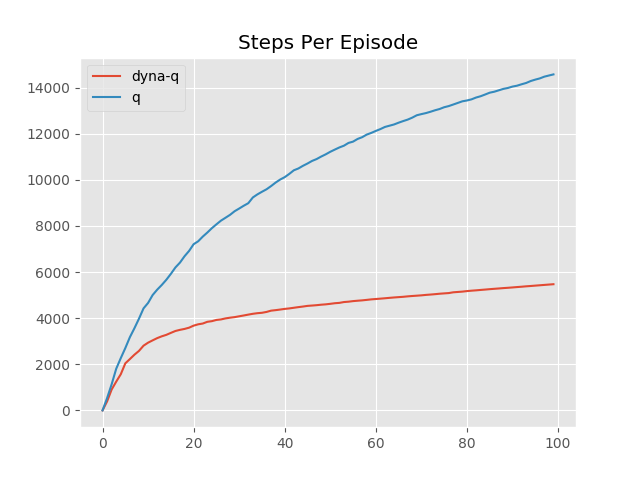
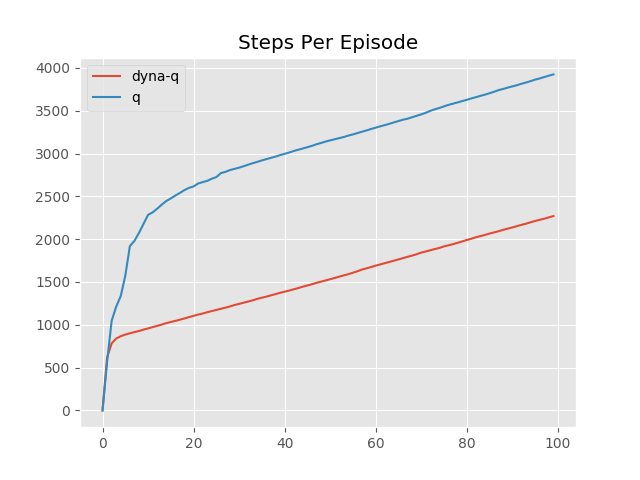
done with testing hw3

diff --git a/hw3/mytaxi/mytaxi.py b/hw3/mytaxi/mytaxi.py
@@ -19,8 +19,8 @@ MAP = [
 MAP = [
     "+---------+",
     "|R? | : ?G|",
-    "| : ? : : |",
-    "| : ? ? : |",
+    "| ? ? : ? |",
+    "| : ? ? ? |",
     "| | ? | : |",
     "|Y| : |B: |",
     "+---------+",
@@ -80,7 +80,7 @@ class TaxiEnv(discrete.DiscreteEnv):
                 for passidx in range(5):
                     for destidx in range(4):
                         state = self.encode(row, col, passidx, destidx)
-                        if passidx < 4 and passidx != destidx:
+                        if passidx == 0 and destidx == 1:
                             isd[state] += 1
                         for a in range(nA):
                             jam = False

diff --git a/hw3/dynaq.py b/hw3/dynaq.py
@@ -264,7 +264,7 @@ def plot_q_vs_dynaq():
     env2 = gym.make('Taxi-v5')
     episodes = 100
     switch_time = -1
-    runs = 20
+    runs = 5
     avg_rew1,avg_rew2 = [], []
     avg_steps1,avg_steps2 = [], []
     for run in range(runs):
@@ -319,7 +319,7 @@ def plot_non_stationary():
     for run in range(runs):
         Q2, rew_list2, steps_list2 = \
             dynaq(env1, env2, n=10, alpha=1., gamma=1.0,
-                    episodes=episodes,switch_time=switch_time,max_mem=1)
+                    episodes=episodes,switch_time=switch_time,max_mem=-1)
         avg_rew2.append(rew_list2)
         avg_steps2.append(steps_list2)
         Q1, rew_list1, steps_list1 = \
